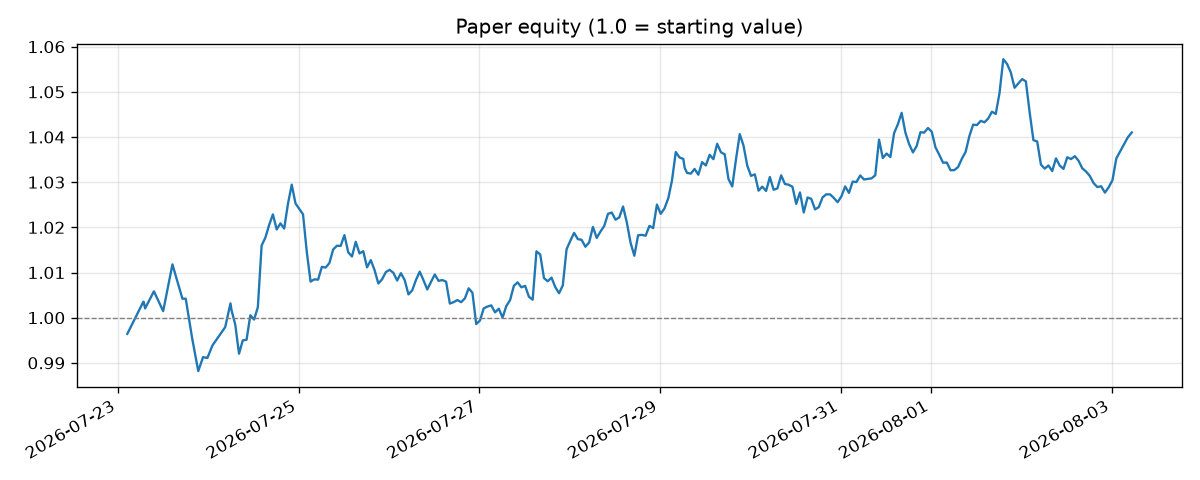
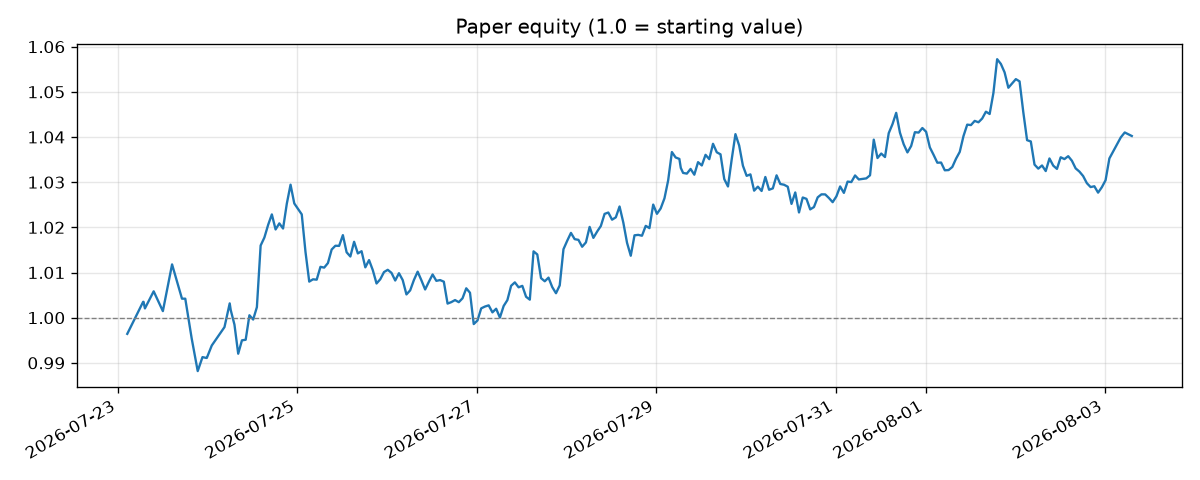
tick status: 2026-08-03T07:10Z

diff --git a/CFM_STATUS.md b/CFM_STATUS.md
@@ -9,41 +9,41 @@ money. Book: slow momentum 60% / funding carry 40% (see cfm_backtest.py).*
 
 | | |
 |---|---|
-| **Equity** | **0.9504** (-4.96% since start) |
-| Peak / drawdown | 1.0141 / -6.28% |
-| Ticks recorded | 243 |
-| Last tick | 2026-08-03T06:14:32.585464+00:00 (+0.0354%) |
-| Risk rails | normal (dd -6.3%) |
-| Data source | coinbase-cfm (bar 2026-08-03 05:00:00+00:00) |
-| Gross leverage | 3.03x |
+| **Equity** | **0.9558** (-4.42% since start) |
+| Peak / drawdown | 1.0141 / -5.75% |
+| Ticks recorded | 244 |
+| Last tick | 2026-08-03T07:09:24.683167+00:00 (+0.5757%) |
+| Risk rails | normal (dd -5.7%) |
+| Data source | coinbase-cfm (bar 2026-08-03 06:00:00+00:00) |
+| Gross leverage | 3.00x |
 | Weeks tracked | 2 |
-| Average week | +1.40% |
+| Average week | +1.69% |
 | Weeks >= +3% | 0% |
-| Best / worst week | +1.74% / +1.06% |
+| Best / worst week | +1.74% / +1.64% |
 
 ## Positions (weight of account / whole contracts)
 
 | Long | Size | Contracts |
 |---|---|---|
-| ETH perp | +31.3% | +16 |
-| XLM perp | +27.0% | +3 |
-| SOL perp | +15.3% | +4 |
-| ADA perp | +9.7% | +5 |
+| ETH perp | +30.9% | +16 |
+| XLM perp | +26.8% | +3 |
+| SOL perp | +15.2% | +4 |
+| ADA perp | +9.6% | +5 |
 | AAVE perp | +4.8% | +1 |
 | DOT perp | +3.3% | +4 |
 
 | Short | Size | Contracts |
 |---|---|---|
-| LTC perp | -37.4% | -16 |
-| BNB perp | -36.8% | -6 |
-| DOGE perp | -33.0% | -9 |
-| BCH perp | -24.4% | -11 |
-| ZEC perp | -20.0% | -4 |
-| LINK perp | -17.4% | -4 |
-| XRP perp | -16.9% | -3 |
-| BTC perp | -13.2% | -2 |
-| NEAR perp | -9.0% | -1 |
-| AVAX perp | -3.4% | -5 |
+| LTC perp | -37.1% | -16 |
+| BNB perp | -36.5% | -6 |
+| DOGE perp | -32.6% | -9 |
+| BCH perp | -24.2% | -11 |
+| ZEC perp | -19.8% | -4 |
+| LINK perp | -17.2% | -4 |
+| XRP perp | -16.8% | -3 |
+| BTC perp | -13.1% | -2 |
+| NEAR perp | -8.9% | -1 |
+| AVAX perp | -3.3% | -5 |
 
 *Every position is an integer number of CDE contracts at the configured
 account size - exactly what a live account could hold.*

diff --git a/STATUS.md b/STATUS.md
@@ -8,17 +8,17 @@ and 8h funding settlements.*
 
 | | |
 |---|---|
-| **Equity** | **1.0410** (+4.10% since start) |
-| Peak / drawdown | 1.0572 / -1.54% |
-| Ticks recorded | 257 |
-| Last tick | 2026-08-03T05:16:06.932411+00:00 (+0.1036%) |
-| Risk rails | normal (dd -1.5%); blind 2.3h -> 50% size on resume |
-| Data source | okx (bar 2026-08-03 04:00:00+00:00) |
+| **Equity** | **1.0402** (+4.02% since start) |
+| Peak / drawdown | 1.0572 / -1.61% |
+| Ticks recorded | 258 |
+| Last tick | 2026-08-03T07:08:55.071308+00:00 (-0.0749%) |
+| Risk rails | normal (dd -1.6%); blind 3.1h -> 50% size on resume |
+| Data source | okx (bar 2026-08-03 06:00:00+00:00) |
 | Gross leverage | 1.77x |
 | Weeks tracked | 2 |
-| Average week | +2.11% |
+| Average week | +2.07% |
 | Weeks ≥ +3% | 50% |
-| Best / worst week | +3.03% / +1.18% |
+| Best / worst week | +3.03% / +1.10% |
 
 ## Positions (futures contracts, fraction of account)
 
@@ -26,19 +26,19 @@ and 8h funding settlements.*
 
 | Contract | Size |
 |---|---|
-| TRX perp | +12.9% |
+| TRX perp | +12.8% |
 | XLM perp | +10.7% |
 | ETH perp | +8.4% |
 | ETC perp | +7.0% |
 | SOL perp | +5.2% |
-| ALGO perp | +3.0% |
+| ALGO perp | +3.1% |
 | AVAX perp | +0.9% |
 
 | Contract | Size |
 |---|---|
-| BNB perp | -22.6% |
-| UNI perp | -17.5% |
-| SUSHI perp | -15.8% |
+| BNB perp | -22.5% |
+| UNI perp | -17.4% |
+| SUSHI perp | -15.7% |
 | LINK perp | -15.6% |
 | LTC perp | -11.7% |
 | DOGE perp | -10.5% |
@@ -49,7 +49,7 @@ and 8h funding settlements.*
 | FIL perp | -3.8% |
 | XRP perp | -3.4% |
 | ATOM perp | -2.1% |
-| DOT perp | -2.0% |
+| DOT perp | -1.9% |
 | AAVE perp | -1.0% |
 
 *Longs collect when price rises; shorts collect when price falls. The book is
